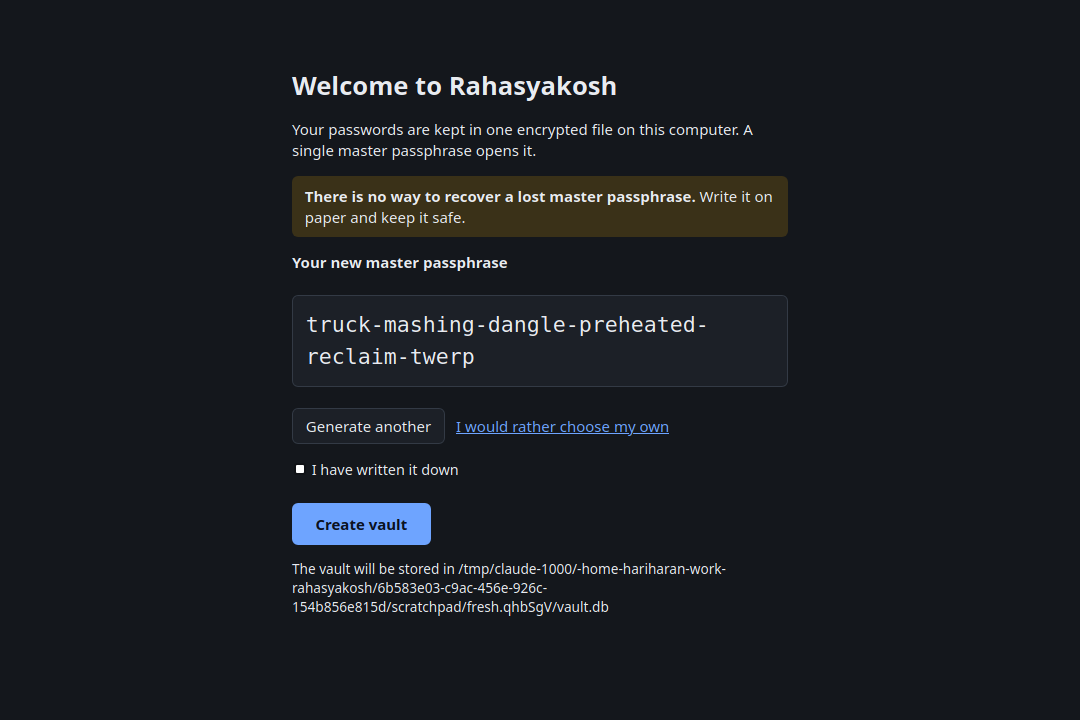
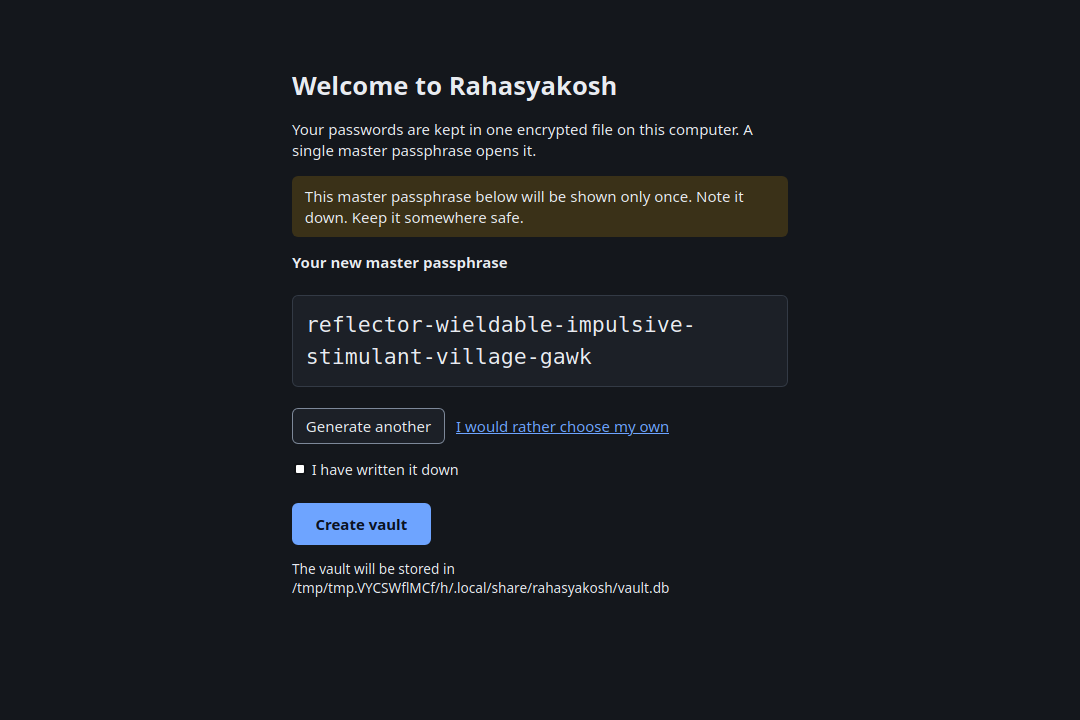
Book: match the setup-screen warning text; refresh the setup screenshot

Changed region(s): [[0.275, 0.2444, 0.7028, 0.3361], [0.275, 0.7639, 0.6722, 0.8556], [0.275, 0.4278, 0.6417, 0.5194]]

diff --git a/docs/book/src/desktop-app.md b/docs/book/src/desktop-app.md
@@ -20,7 +20,7 @@ It puts `rahasyakosh-desktop` in `~/.local/bin`, a launcher entry in your app gr
 
 ## First run
 
-If there is no vault yet, the app offers to create one. It generates a six-word **master passphrase** and shows it once. Write it on paper and tick the box. You can
+If there is no vault yet, the app offers to create one. It generates a six-word **master passphrase** and shows it once, with the note "This master passphrase below will be shown only once. Note it down. Keep it somewhere safe." Note it down (on paper is best) and tick the box. You can
 instead type your own password, and the app rates its strength and refuses weak ones. **There is no way to recover a lost master passphrase.**
 
 ![First run: a generated passphrase, a warning, and a confirmation box](images/desktop-setup.png)
